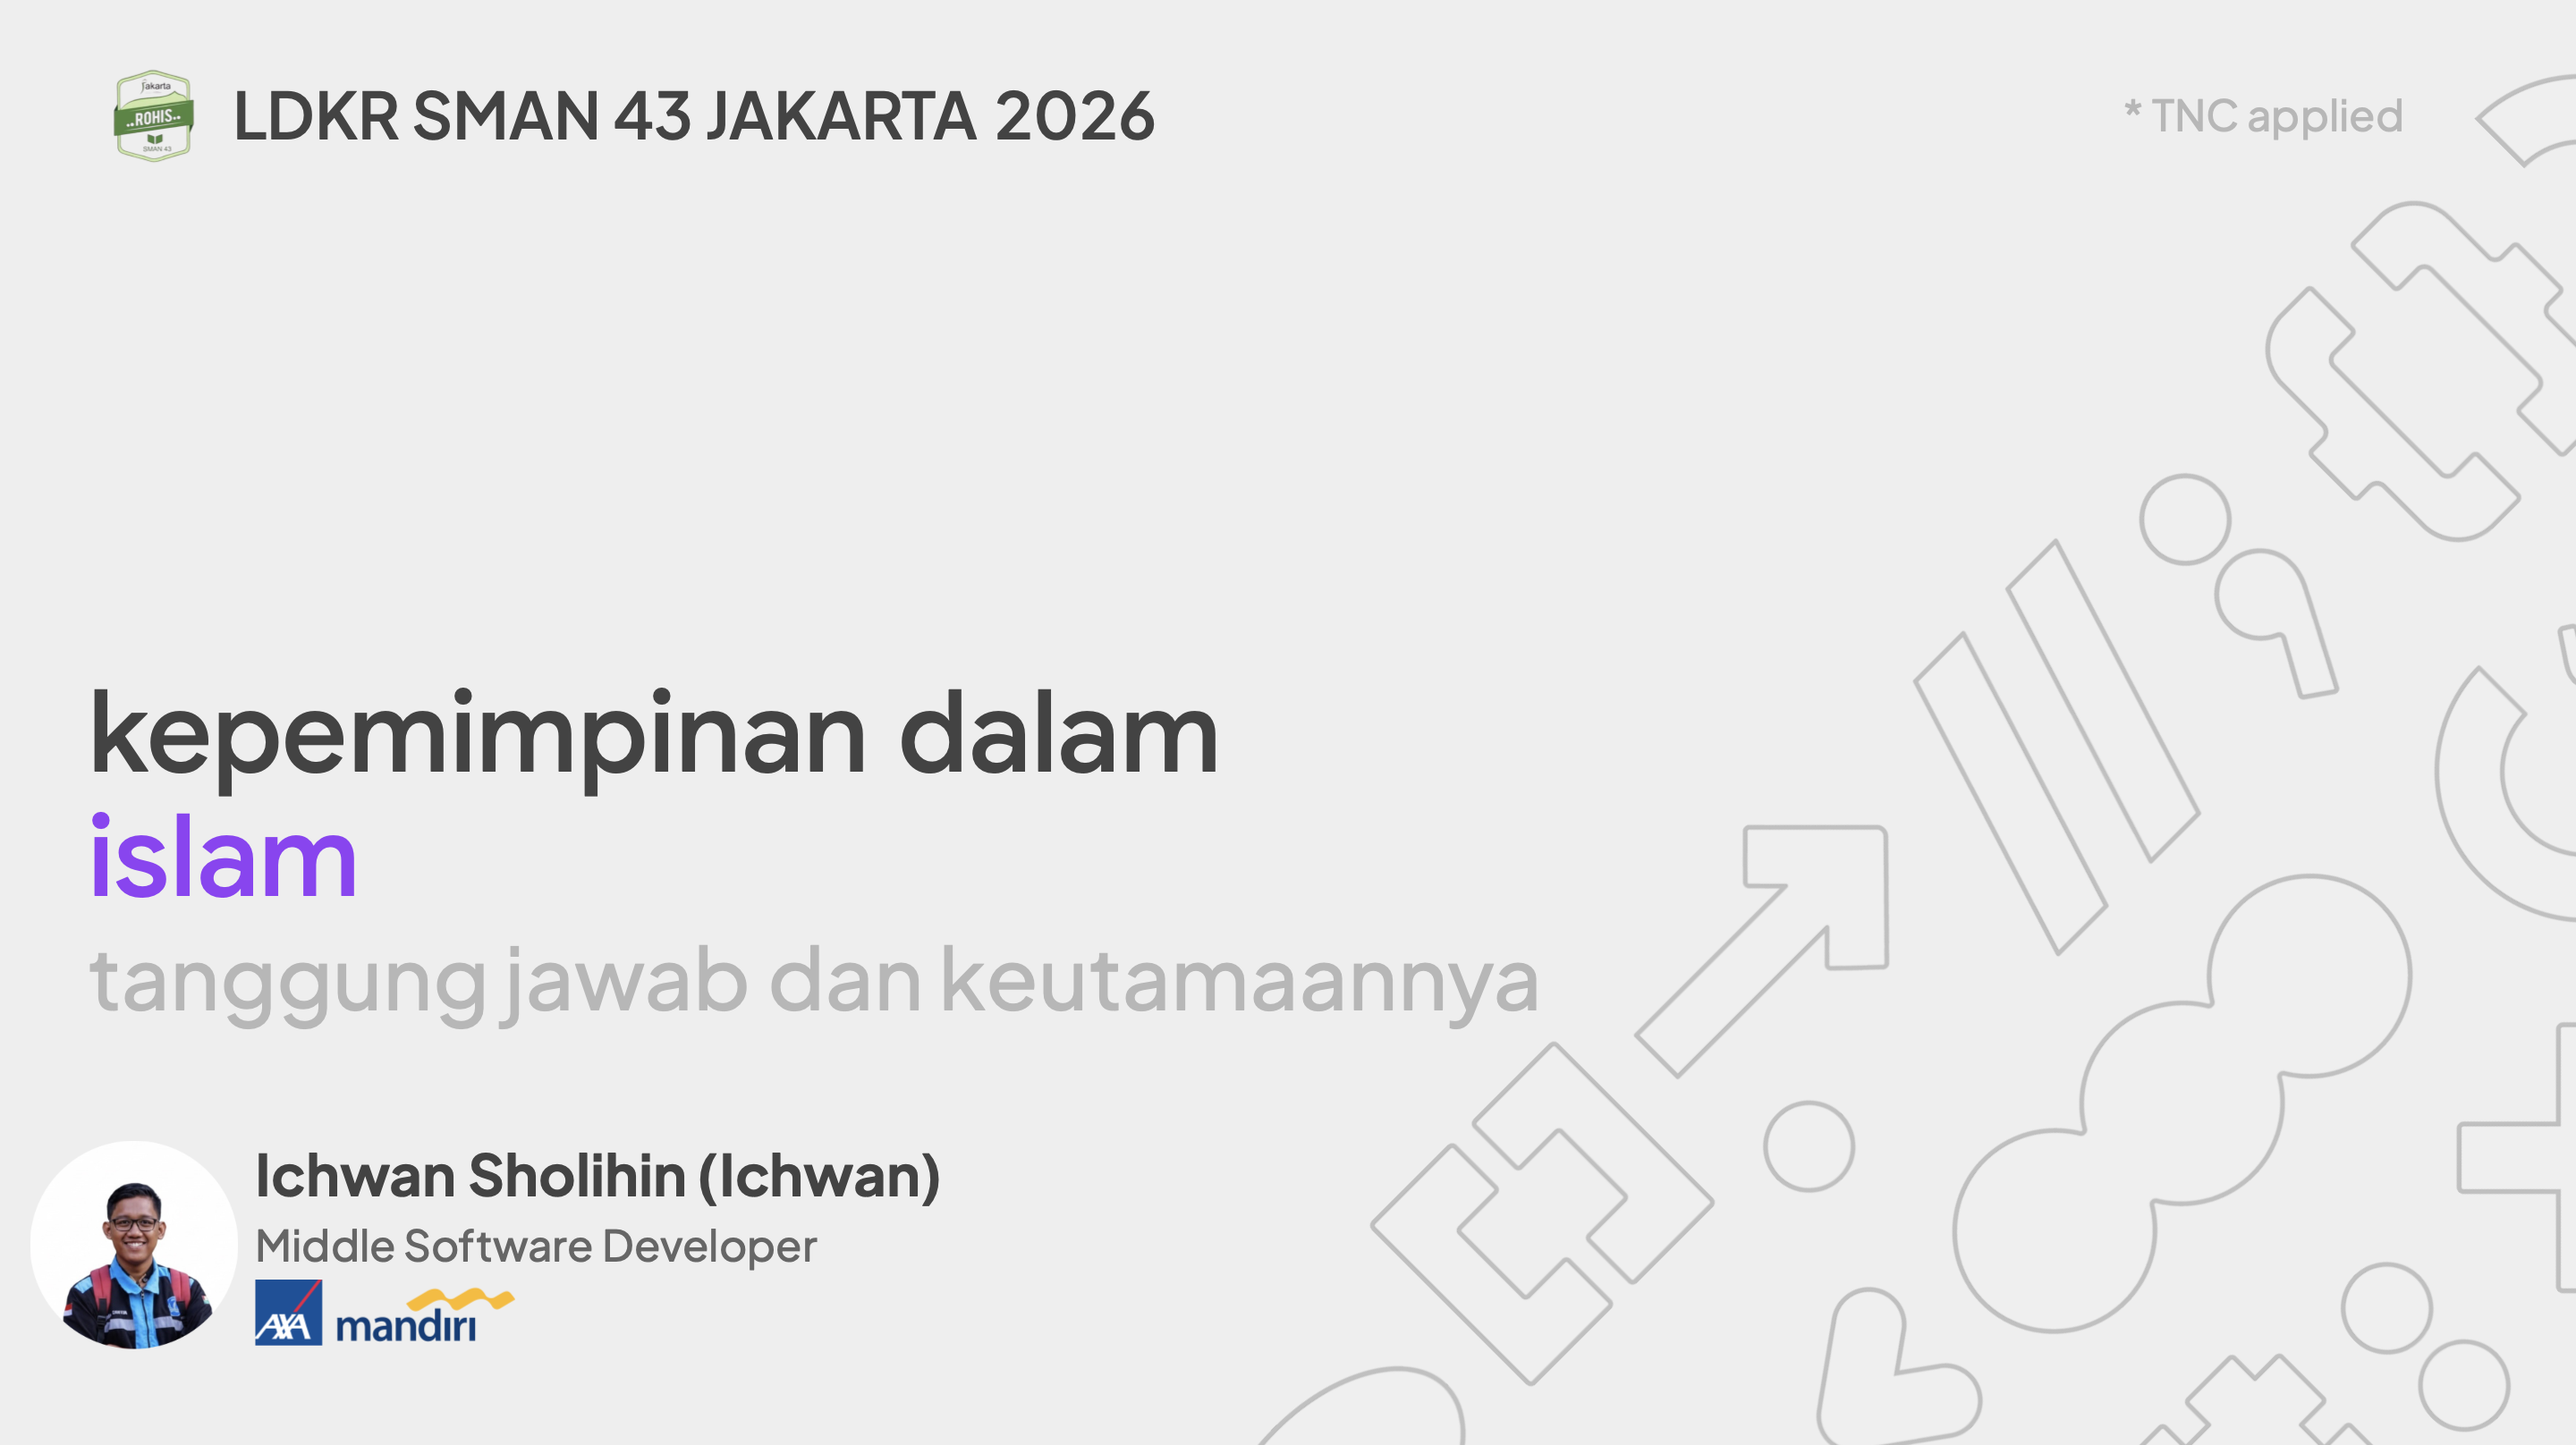
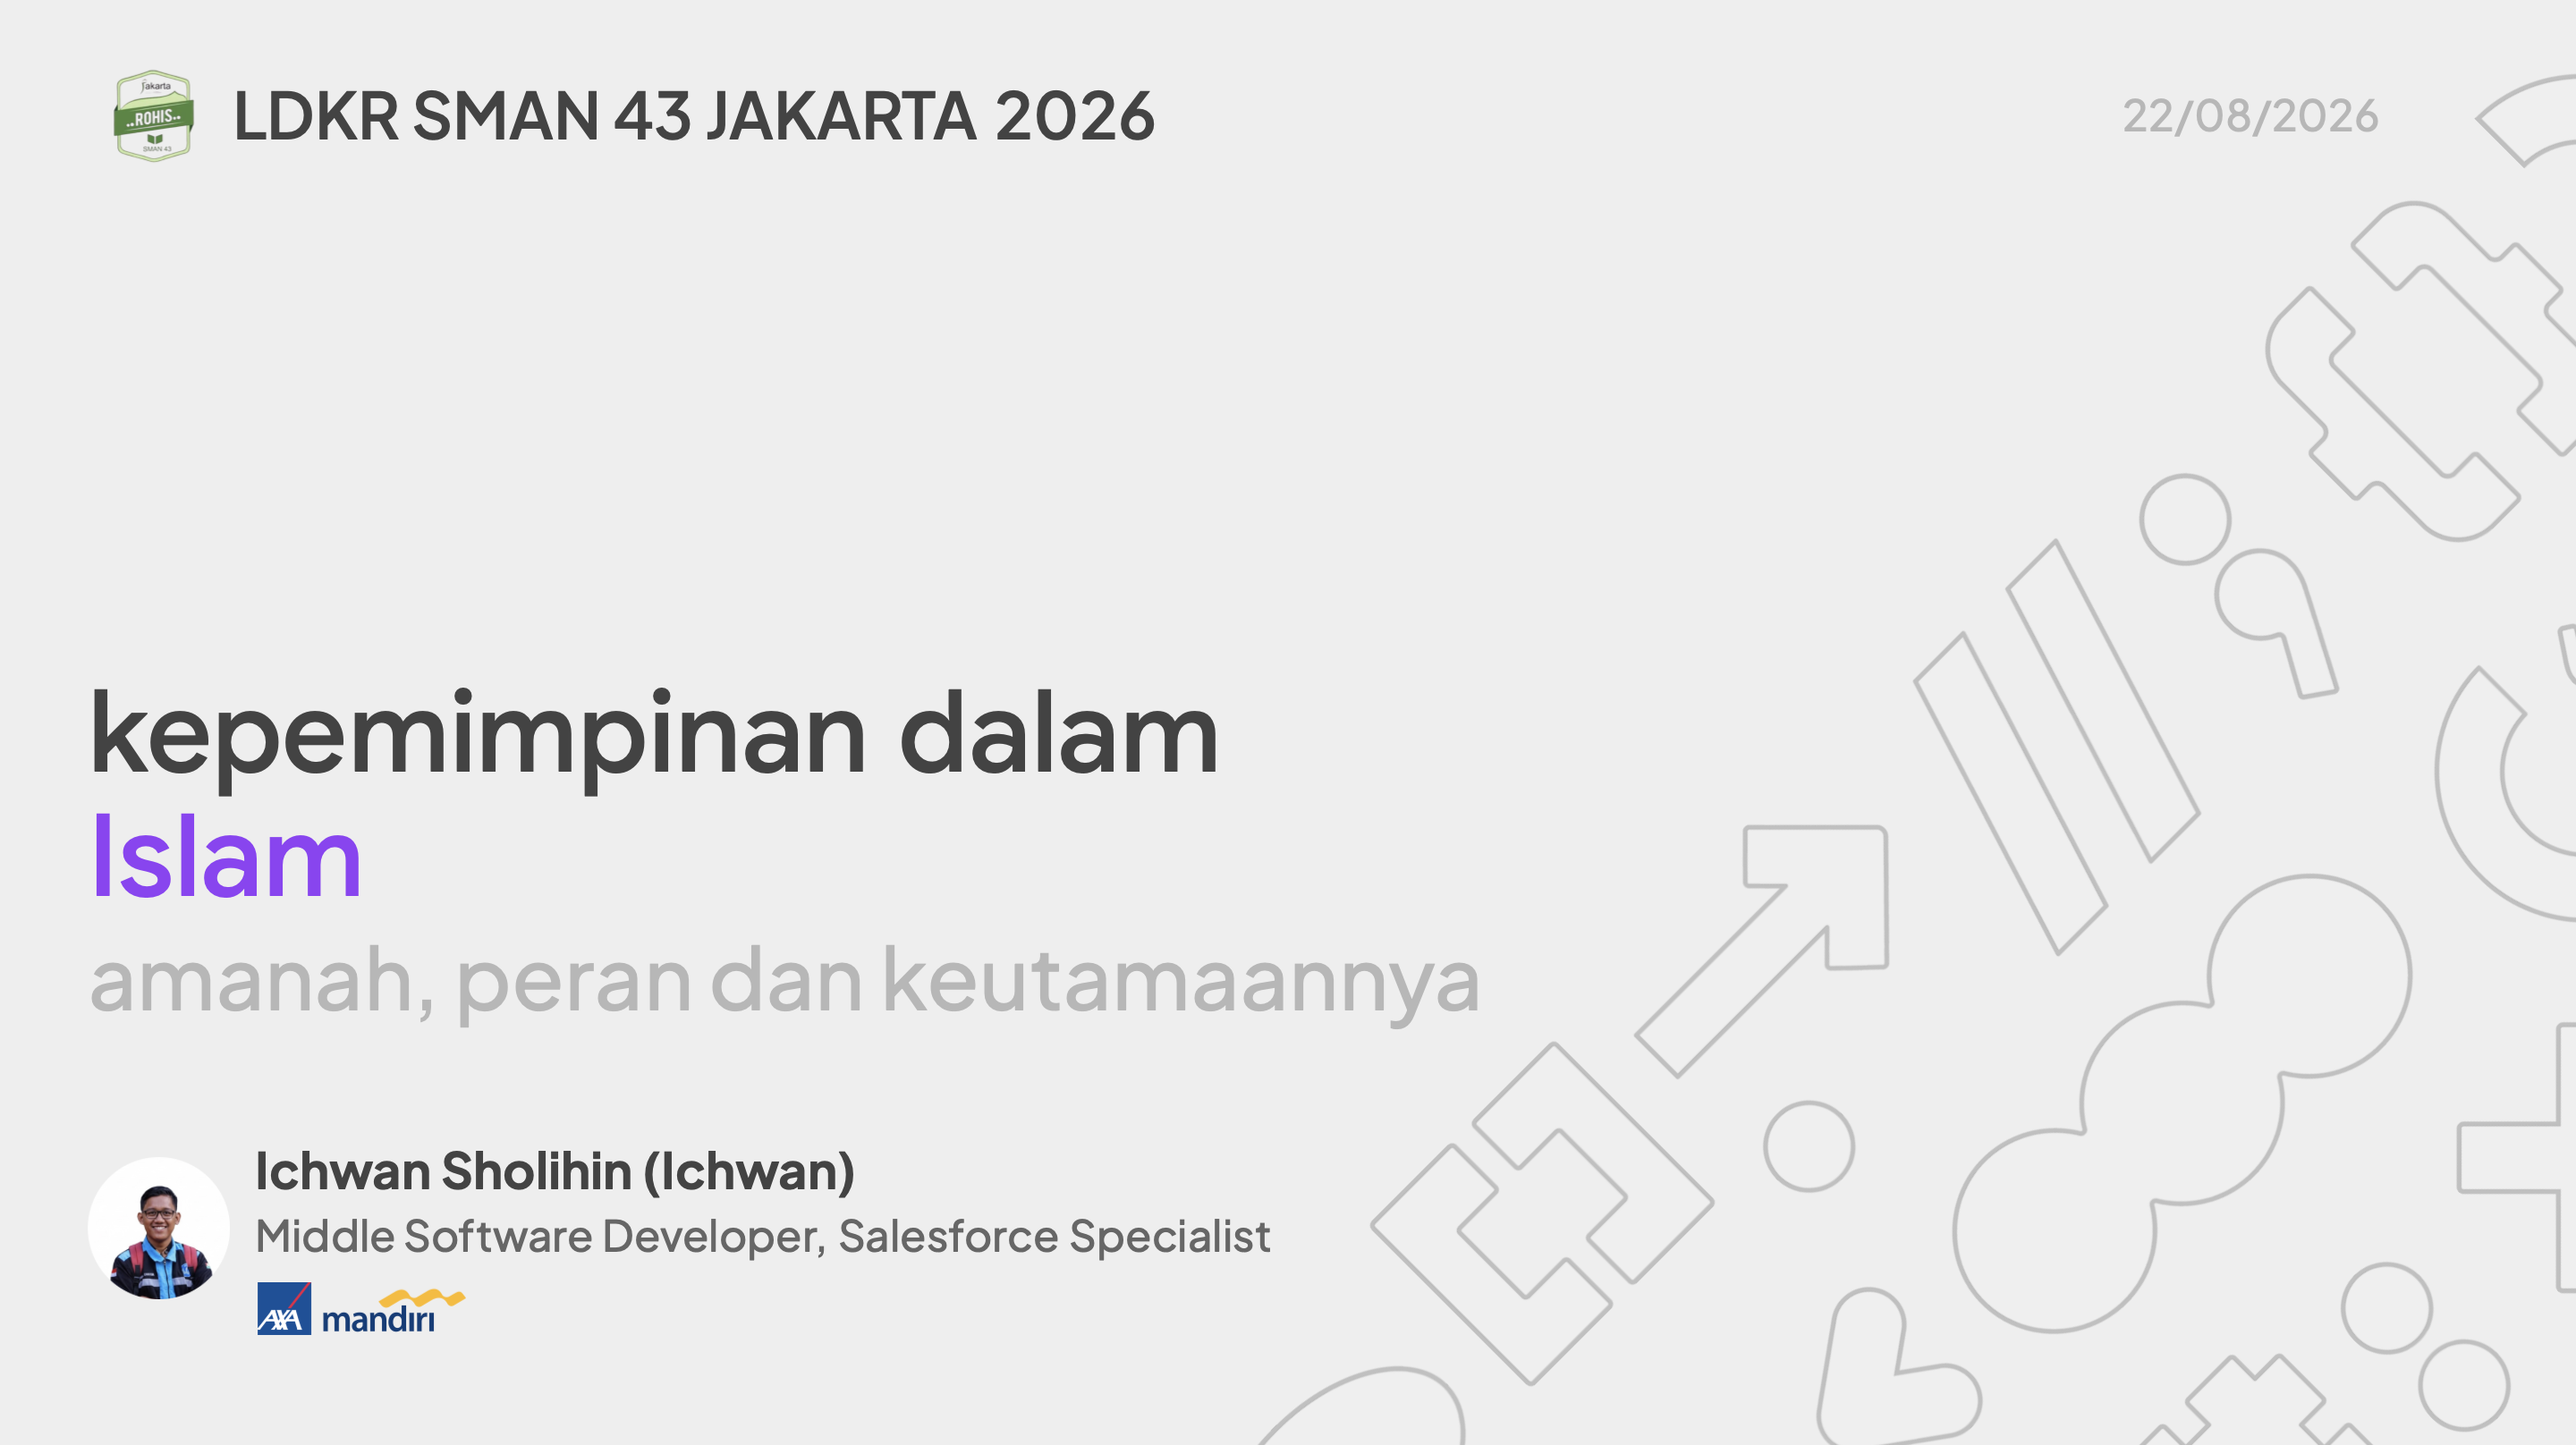
change slide

diff --git a/index.html b/index.html
@@ -50,7 +50,7 @@
                      alt="Profile of Ichwan Sholihin" class="hero-avatar" id="profileImage" loading="eager">
             </div>
             <h1>Ichwan Sholihin</h1>
-            <p class="tagline">Software Developer with 3+ years delivering scalable backend systems and measurable business impact across Java, Kotlin, and Salesforce ecosystems.</p>
+            <p class="tagline">Software developer with 3+ years delivering scalable backend systems and measurable business impact across Java, Kotlin, and Salesforce ecosystems.</p>
             
             <div class="social-row">
                 <a href="https://github.com/ichwansh03" target="_blank" rel="noopener noreferrer" class="social-btn" aria-label="GitHub">
